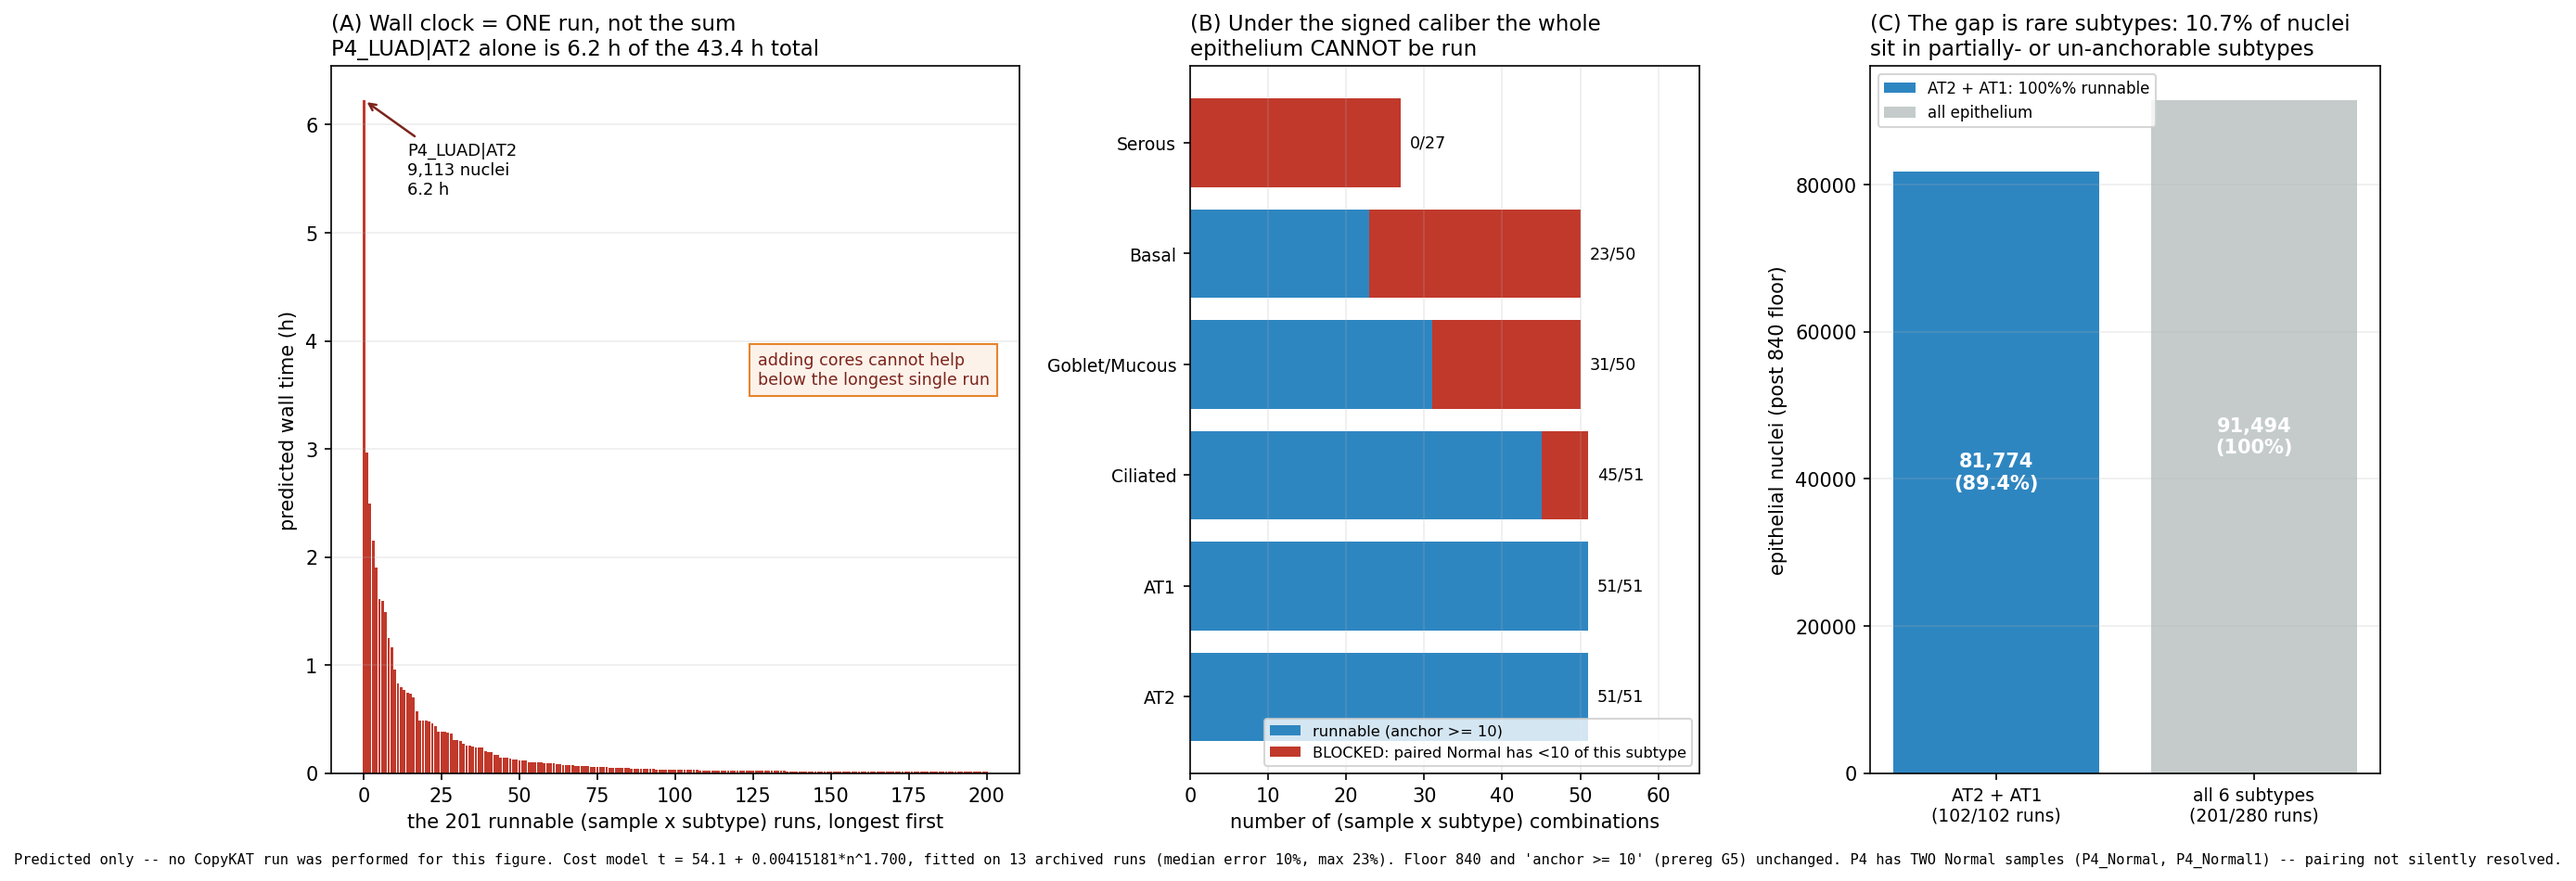
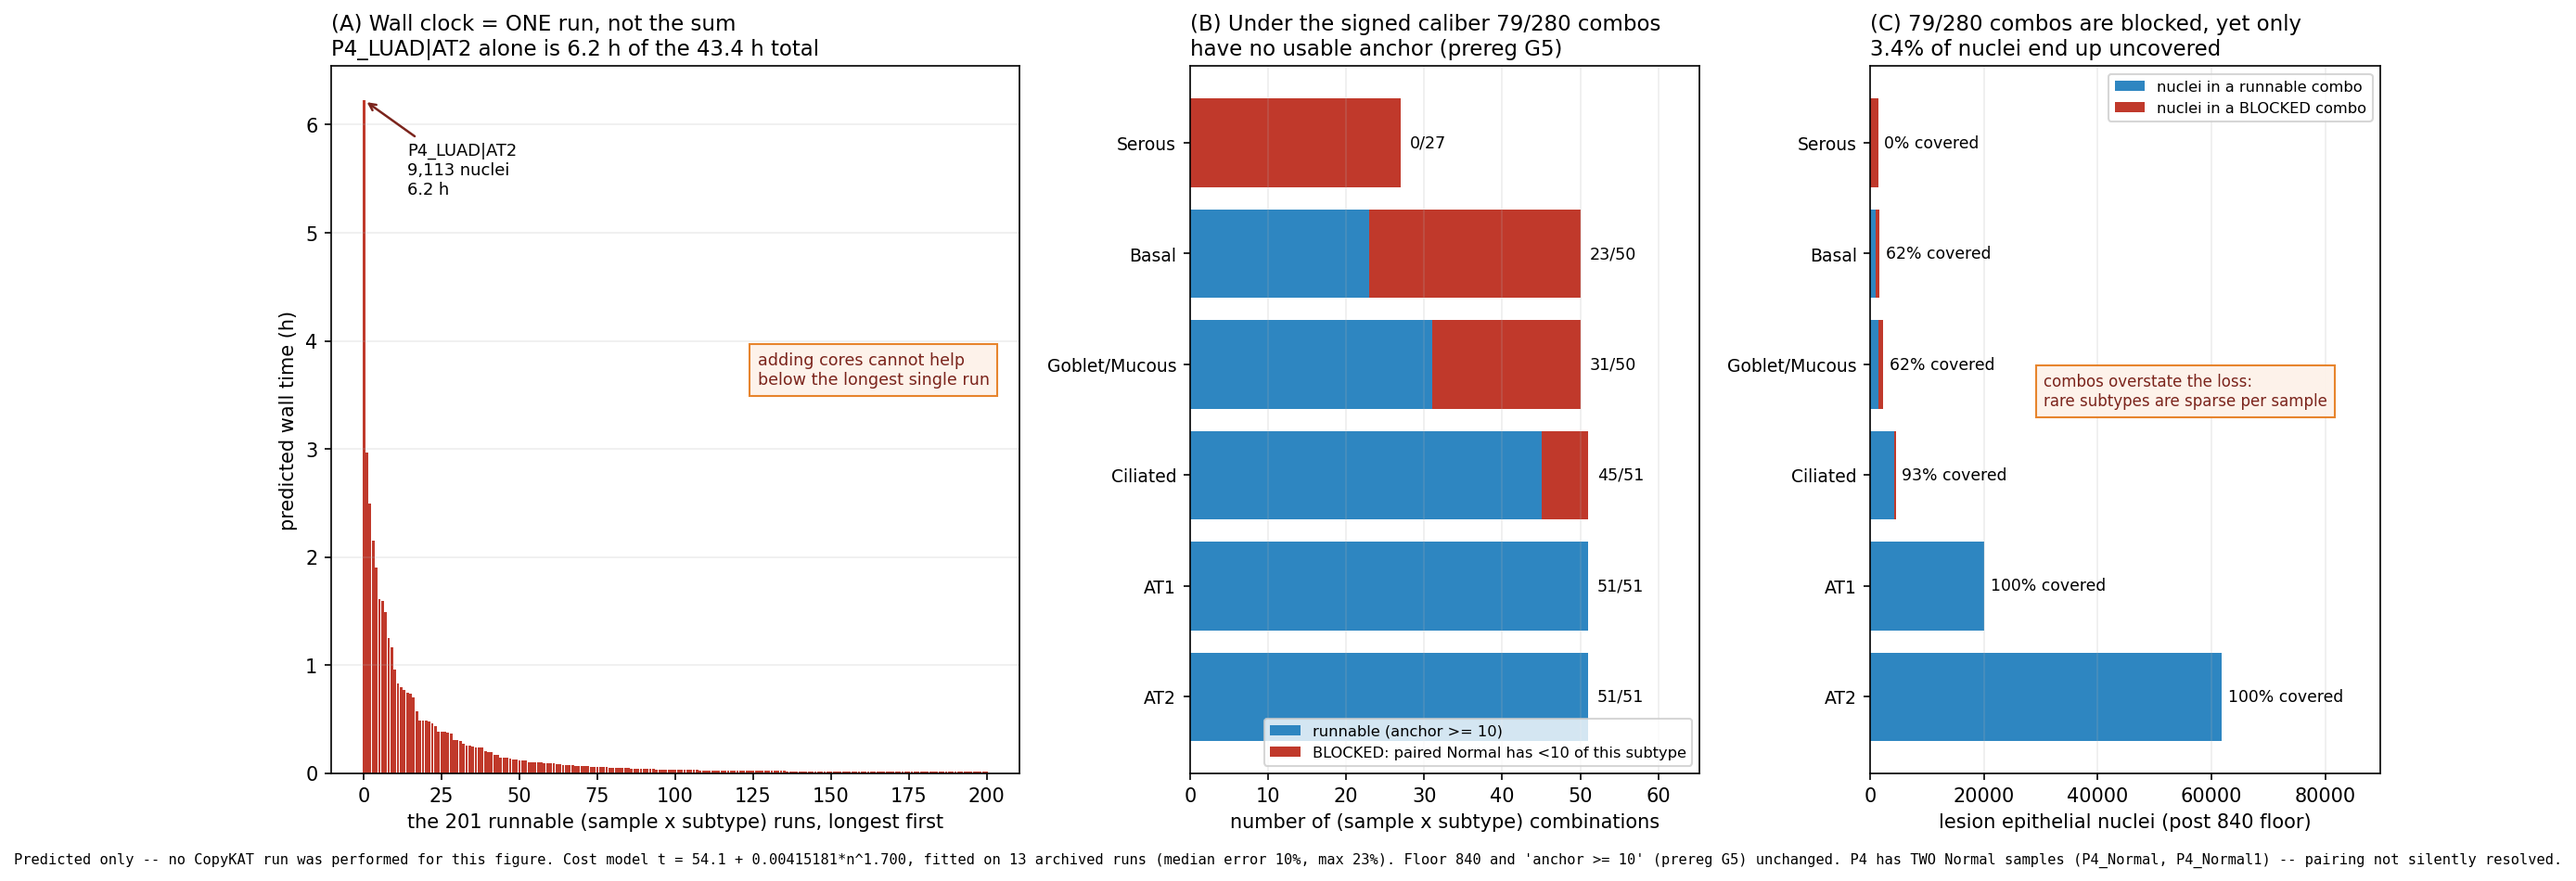
更正排期图 (C)：组合数口径**高估**了缺口
原图 (C) 写「10.7% 的上皮核落在部分/完全无法锚定的亚型里」，把「该亚型有
若干样本被挡」等同于「该亚型的核都没被覆盖」——两者不等价。

按亚型实算（病灶上皮核 91,494）：
- 只能被挡的核 = 3,144 = **3.4%**（Serous 1,359 全挡 / Goblet-Mucous 880 /
  Basal 605 / Ciliated 300）
- 96.6% 的核落在某个**可跑**的（样本 × 亚型）组合里
- 组合口径 79/280 被挡之所以看着严重，是因为少见亚型每样本本来就没几个核

⇒ (C) 改为逐亚型堆叠核数（可跑 vs 被挡）+ 覆盖百分比；标题改为
「79/280 组合被挡，但只有 3.4% 的核真的没被覆盖」。
(B) 标题同步由「whole epithelium CANNOT be run」改为「79/280 combos have no
usable anchor」，与 (C) 一致。清单加入 blocked_nuclei / nuclei_uncovered。

Changed region(s): [[0.6813, 0.0, 0.9291, 0.9463], [0.4645, 0.0, 0.6503, 0.0611]]

diff --git a/03_cnv/10_epi_schedule_figure.py b/03_cnv/10_epi_schedule_figure.py
@@ -64,6 +64,7 @@ def main():
     norm = {p: [x for x in v if "Normal" in x] for p, v in norm.items()}
 
     cov = collections.Counter(); bad = collections.Counter(); cells = collections.Counter()
+    blk = collections.Counter()
     hours = []
     for (s, st), n in idx.items():
         if "Normal" in s:
@@ -73,6 +74,7 @@ def main():
         an = max((int(idx.get((nn, st), 0)) for nn in norm.get(pat(s), [])), default=0)
         if an < MIN_ANCHOR:
             bad[st] += 1
+            blk[st] += int(n)   # 被挡的是**这一对样本**的核，不是该亚型全部核
         else:
             hours.append((sec(int(n) + an) / 3600, f"{s}|{st}", int(n) + an))
     hours.sort(reverse=True)
@@ -111,32 +113,36 @@ def main():
         ax2.text(okv[i] + bdv[i] + 1.2, i, f"{okv[i]}/{cov[s]}", va="center", fontsize=8.4)
     ax2.set_yticks(y); ax2.set_yticklabels(order, fontsize=9)
     ax2.set_xlabel("number of (sample x subtype) combinations", fontsize=10)
-    ax2.set_title("(B) Under the signed caliber the whole\n"
-                  "epithelium CANNOT be run", fontsize=11, loc="left")
+    ax2.set_title("(B) Under the signed caliber 79/280 combos\n"
+                  "have no usable anchor (prereg G5)", fontsize=11, loc="left")
     ax2.legend(fontsize=7.8, loc="lower right")
     ax2.set_xlim(0, max(cov.values()) * 1.28)
     ax2.grid(axis="x", alpha=0.22)
 
-    # ---- (C) 核数覆盖 ----
+    # ---- (C) 核数覆盖：组合数**高估**损失——少见亚型的核本来就少 ----
     ax3 = fig.add_subplot(gs[0, 2])
     tot = sum(cells.values())
-    run = sum(cells[s] for s in order if s not in ("Serous", "Basal", "Goblet/Mucous",
-                                                   "Ciliated"))
-    ax3.bar([0], [run], color="#2e86c1", label="AT2 + AT1: 100%% runnable")
-    ax3.bar([1], [tot], color="#7f8c8d", alpha=0.45, label="all epithelium")
-    for x, v, lab in ((0, run, f"{run:,}\n({100*run/tot:.1f}%)"),
-                      (1, tot, f"{tot:,}\n(100%)")):
-        ax3.text(x, v * 0.5, lab, ha="center", va="center", fontsize=10,
-                 color="white", fontweight="bold")
-    ax3.set_xticks([0, 1])
-    ax3.set_xticklabels(["AT2 + AT1\n(102/102 runs)", "all 6 subtypes\n(201/280 runs)"],
-                        fontsize=9)
-    ax3.set_ylabel("epithelial nuclei (post 840 floor)", fontsize=10)
-    ax3.set_title("(C) The gap is rare subtypes: 10.7% of nuclei\n"
-                  "sit in partially- or un-anchorable subtypes",
+    okn = [cells[s] - blk[s] for s in order]
+    bdn = [blk[s] for s in order]
+    yy = np.arange(len(order))
+    ax3.barh(yy, okn, color="#2e86c1", label="nuclei in a runnable combo")
+    ax3.barh(yy, bdn, left=okn, color="#c0392b", label="nuclei in a BLOCKED combo")
+    for i, s in enumerate(order):
+        ax3.text(cells[s] + tot * 0.012, i, f"{100*(cells[s]-blk[s])/cells[s]:.0f}% covered",
+                 va="center", fontsize=8.3)
+    ax3.set_yticks(yy); ax3.set_yticklabels(order, fontsize=9)
+    ax3.set_xlabel("lesion epithelial nuclei (post 840 floor)", fontsize=10)
+    unc = sum(bdn)
+    ax3.set_title("(C) 79/280 combos are blocked, yet only\n"
+                  "%.1f%% of nuclei end up uncovered" % (100.0 * unc / tot),
                   fontsize=11, loc="left")
-    ax3.legend(fontsize=8, loc="upper left")
-    ax3.grid(axis="y", alpha=0.22)
+    ax3.legend(fontsize=7.8, loc="upper right")
+    ax3.set_xlim(0, tot * 0.98)
+    ax3.grid(axis="x", alpha=0.22)
+    ax3.text(0.34, 0.52,
+             "combos overstate the loss:\nrare subtypes are sparse per sample",
+             transform=ax3.transAxes, fontsize=8, color="#7b241c",
+             bbox=dict(fc="#fdf2e9", ec="#e67e22", alpha=0.95))
 
     fig.text(0.005, 0.012,
              "Predicted only -- no CopyKAT run was performed for this figure. Cost model "
@@ -153,16 +159,21 @@ def main():
     inv = {
         "figure": os.path.relpath(out, ROOT), "figure_sha256": sha256(out),
         "question": "把 CopyKAT 扩到全量上皮要多久？",
-        "answer": "忠于签字口径（同亚型锚定）挂钟约 6.2 h、CPU 43 h，但 79/280 组合无合格锚定。",
+        "answer": "忠于签字口径（同亚型锚定）挂钟约 6.2 h、CPU 43.4 h。79/280 组合无合格锚定，"
+                  "但被挡的核只占病灶上皮核的 %.1f%%（%d/%d）——组合数高估了损失。"
+                  % (100.0 * unc / tot, unc, tot),
         "single_longest_run_h": hours[0][0], "wall_harmonic_bound_h": hours[0][0],
         "sum_serial_h": sum(hv),
-        "coverage": {s: {"combos": cov[s], "blocked": bad[s], "lesion_nuclei": cells[s]}
-                     for s in order},
+        "coverage": {s: {"combos": cov[s], "blocked": bad[s], "lesion_nuclei": cells[s],
+                         "blocked_nuclei": blk[s]} for s in order},
+        "nuclei_total_lesion_epi": tot, "nuclei_uncovered": unc,
+        "nuclei_uncovered_frac": unc / tot,
         "caveats": [
             "纯预测，未为本图跑任何 CopyKAT。",
             "模型在同 n 不同样本上有 ±43% 的散布（n=393 时 130.6s vs 186.9s）⇒ 挂钟应按区间读，约 5–8 h。",
             "P4 有两个 Normal 样本，配对歧义未消解（本图锚定取两者中核数较多者）。",
             "挂钟受单个最长运行限制，加核不可缩短。",
+            "「79/280 被挡」是**组合数**口径；被挡的核只占 3.4%，因少见亚型每样本本来就没几个核。",
         ],
         "inputs_sha256": {os.path.relpath(p, ROOT): sha256(p) for p in (EST, EPI, CLU, ANN)},
     }
@@ -173,6 +184,8 @@ def main():
     print("清单:", mf)
     print(f"  最长单跑 {hours[0][1]} {hours[0][2]} 核 {hours[0][0]:.2f} h；"
           f"串行合计 {sum(hv):.1f} h；可跑 {len(hv)} 跑")
+    print(f"  被挡核 {unc:,}/{tot:,} = {100.0*unc/tot:.1f}%（组合口径 {sum(bad.values())}"
+          f"/{sum(cov.values())}）")
 
 
 if __name__ == "__main__":
